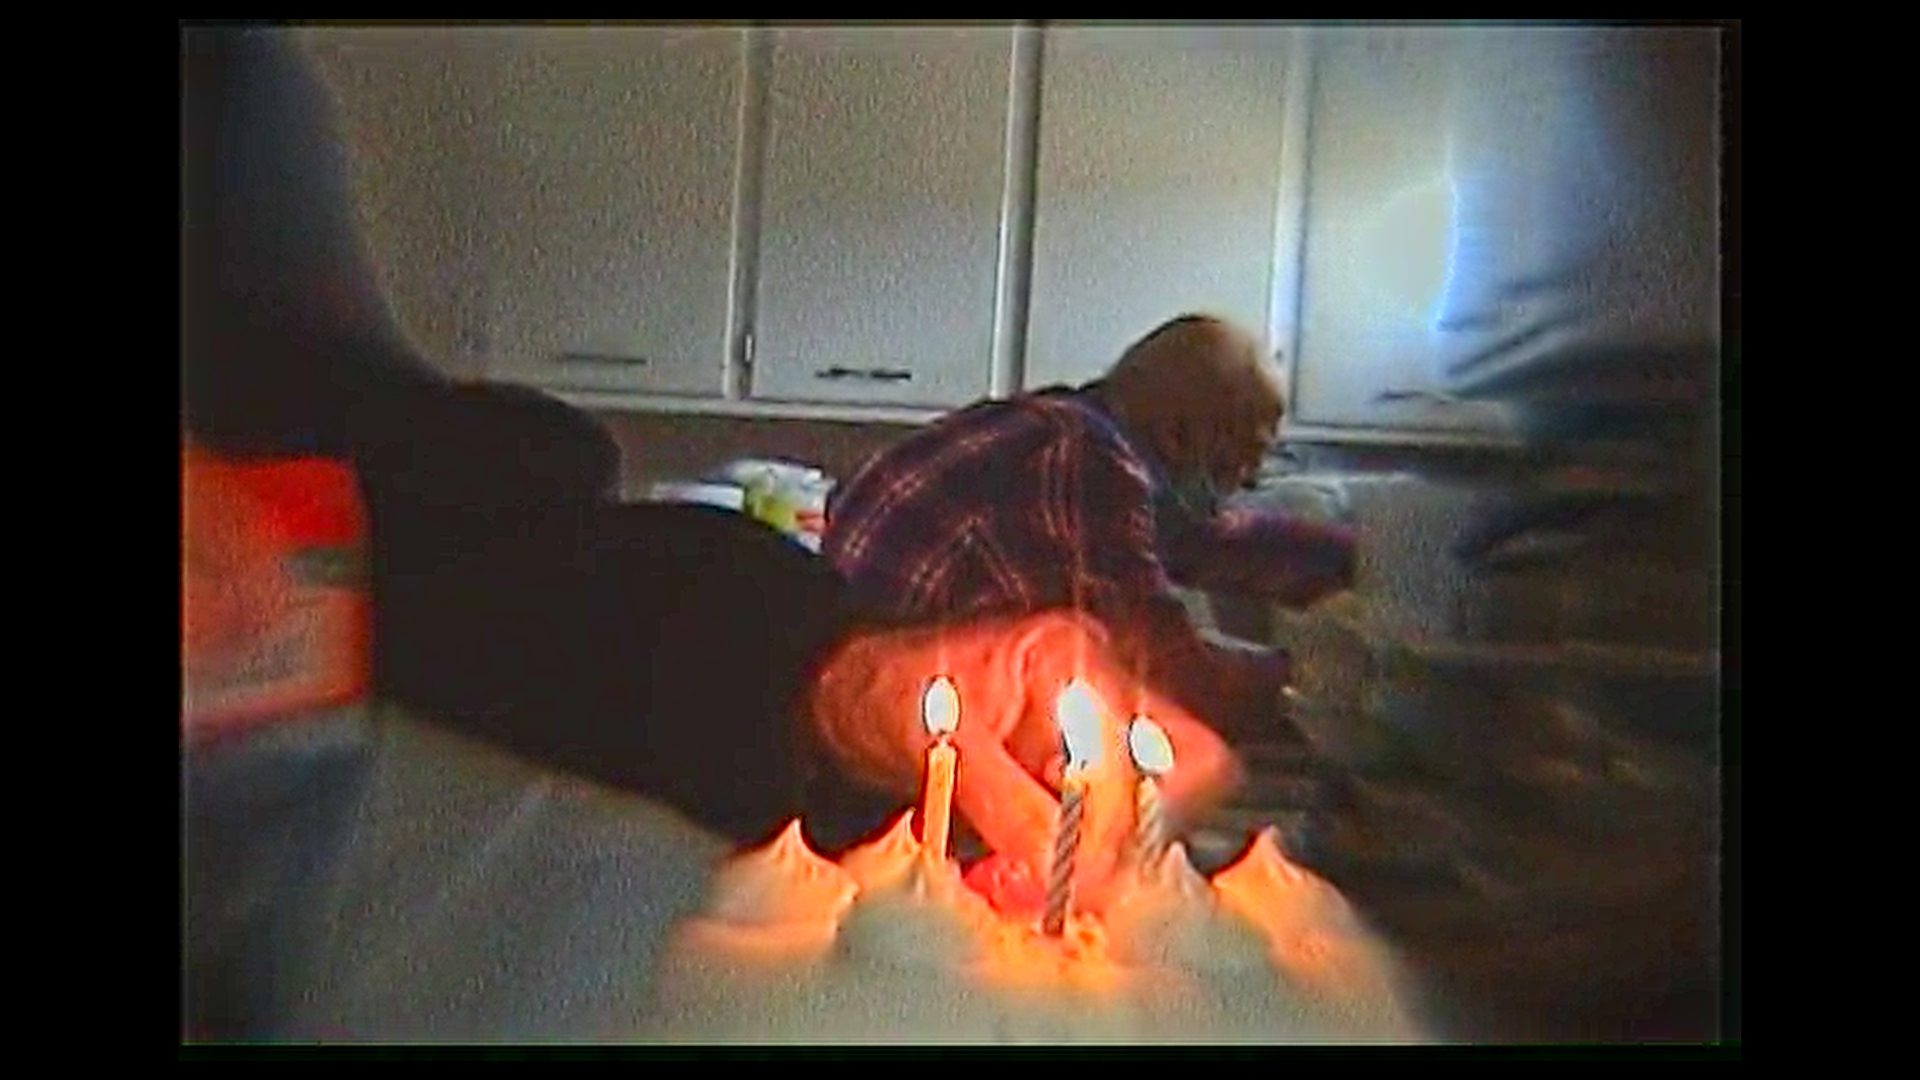
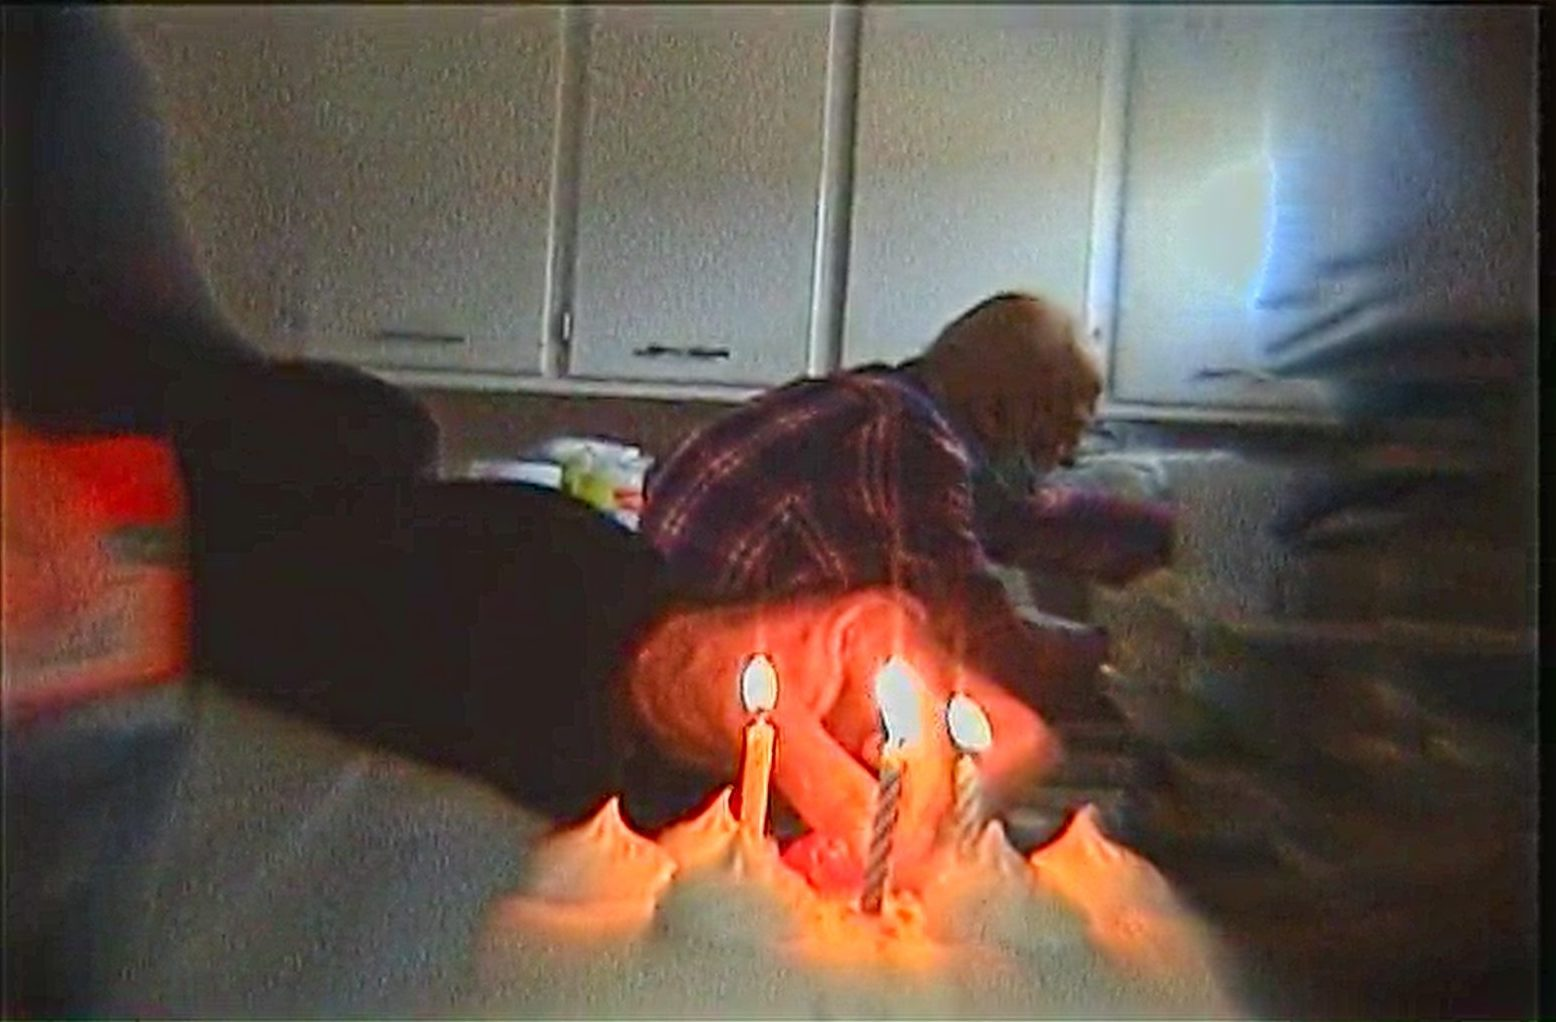
State of No Cause stills: trim the camcorder black borders so the rounded corners show

diff --git a/js/works.js b/js/works.js
@@ -268,5 +268,5 @@ const works = [...motionWorks, ...photoWorks].map(work => {
 });
 
 function workImage(work, size) {
-  return `assets/works/${size}/${work.img}.jpg?v=4`; // bump when the images are re-exported
+  return `assets/works/${size}/${work.img}.jpg?v=5`; // bump when the images are re-exported
 }

diff --git a/index.html b/index.html
@@ -95,7 +95,7 @@
     </div>
   </div>
 
-  <script src="js/works.js?v=7"></script>
+  <script src="js/works.js?v=8"></script>
   <script src="js/main.js?v=39"></script>
 </body>
 </html>
